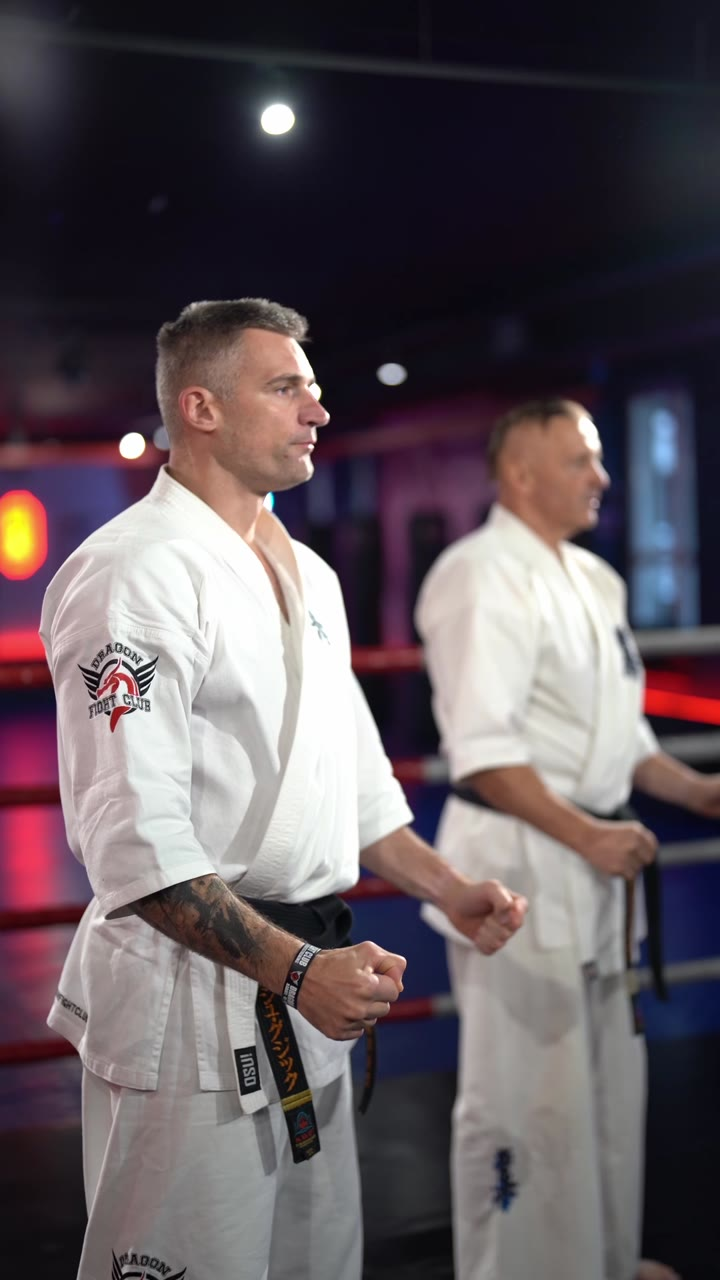
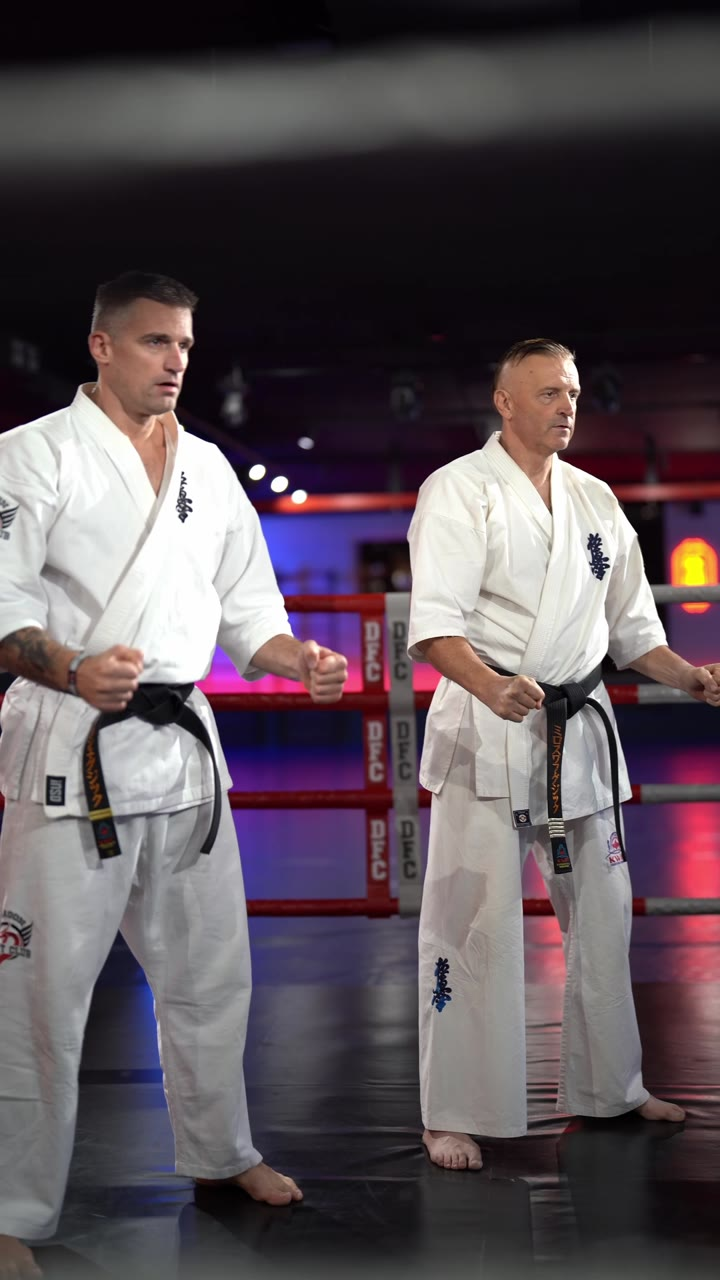
Ostrzejsza okładka części 2: ojciec i syn obok siebie (28,0 s)
Claude-Session: https://claude.ai/code/session_01Sej1UEWUuuPz2tXpVE7gfu

diff --git a/src/app/page.tsx b/src/app/page.tsx
@@ -107,7 +107,7 @@ export default function Home() {
 // Rolki klubu Dragon Fight Club Radom jako intro dla nowych osób. Pionowe, z dźwiękiem, startują po kliknięciu.
 const INTRO_REELS = [
   { src: "/wideo/pokolenia-1.mp4", poster: "/wideo/pokolenia-1.jpg?v=4", label: "Część 1 · Przygotowanie" },
-  { src: "/wideo/pokolenia-2.mp4", poster: "/wideo/pokolenia-2.jpg?v=2", label: "Część 2 · Pokolenia" },
+  { src: "/wideo/pokolenia-2.mp4", poster: "/wideo/pokolenia-2.jpg?v=3", label: "Część 2 · Pokolenia" },
 ];
 
 function IntroVideo() {
